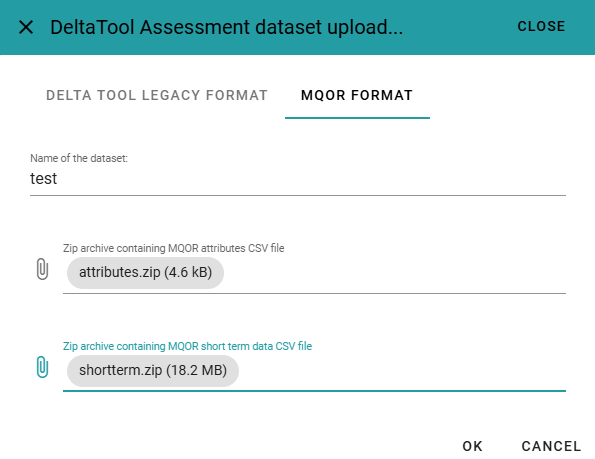
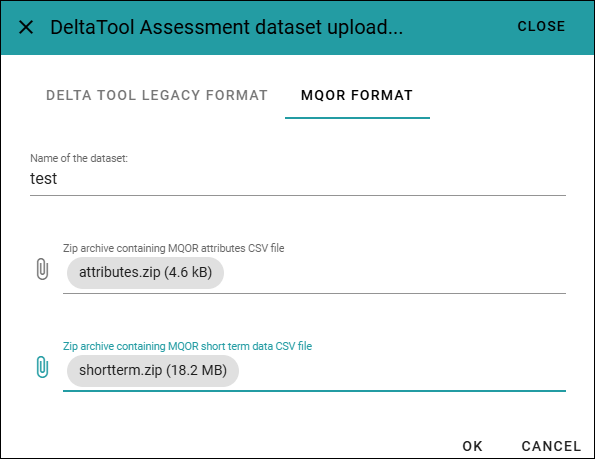
Edit text

Changed region(s): [[0.9983, 0.0, 1.0, 1.0], [0.0, 0.976, 0.0303, 1.0], [0.0, 0.0, 0.0303, 0.0305]]

diff --git a/2_assessment.rst b/2_assessment.rst
@@ -14,7 +14,6 @@ Load your dataset
 
 
 .. figure:: graphics/LoadDatasetMQOR.png
-   :class: with-custom-border
 
    Load dataset using the MQOR format
 
@@ -37,7 +36,6 @@ Run an experiment
 -----------------
 
 .. figure:: graphics/AssessmentRun.png
-   :class: with-custom-border
 
    Input parameters for running an experiment
 